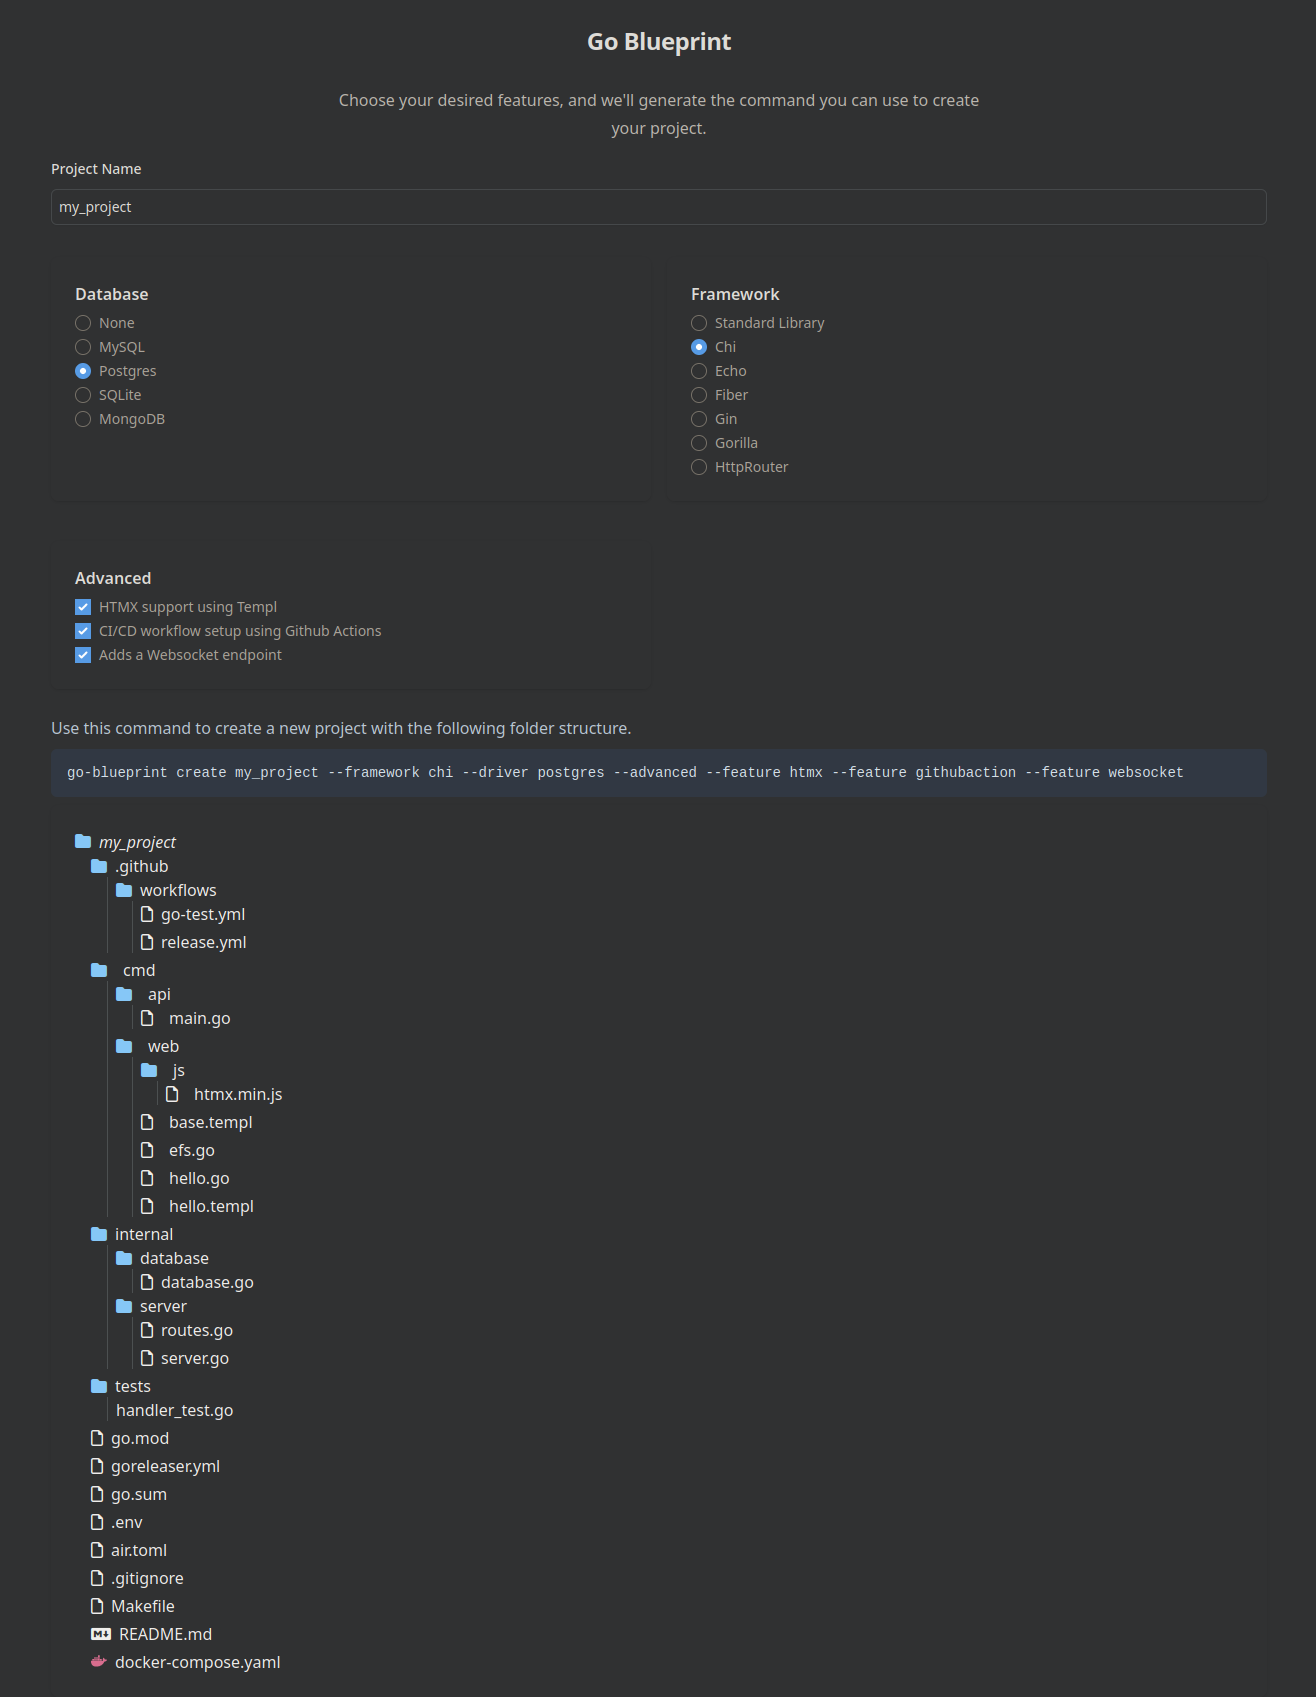
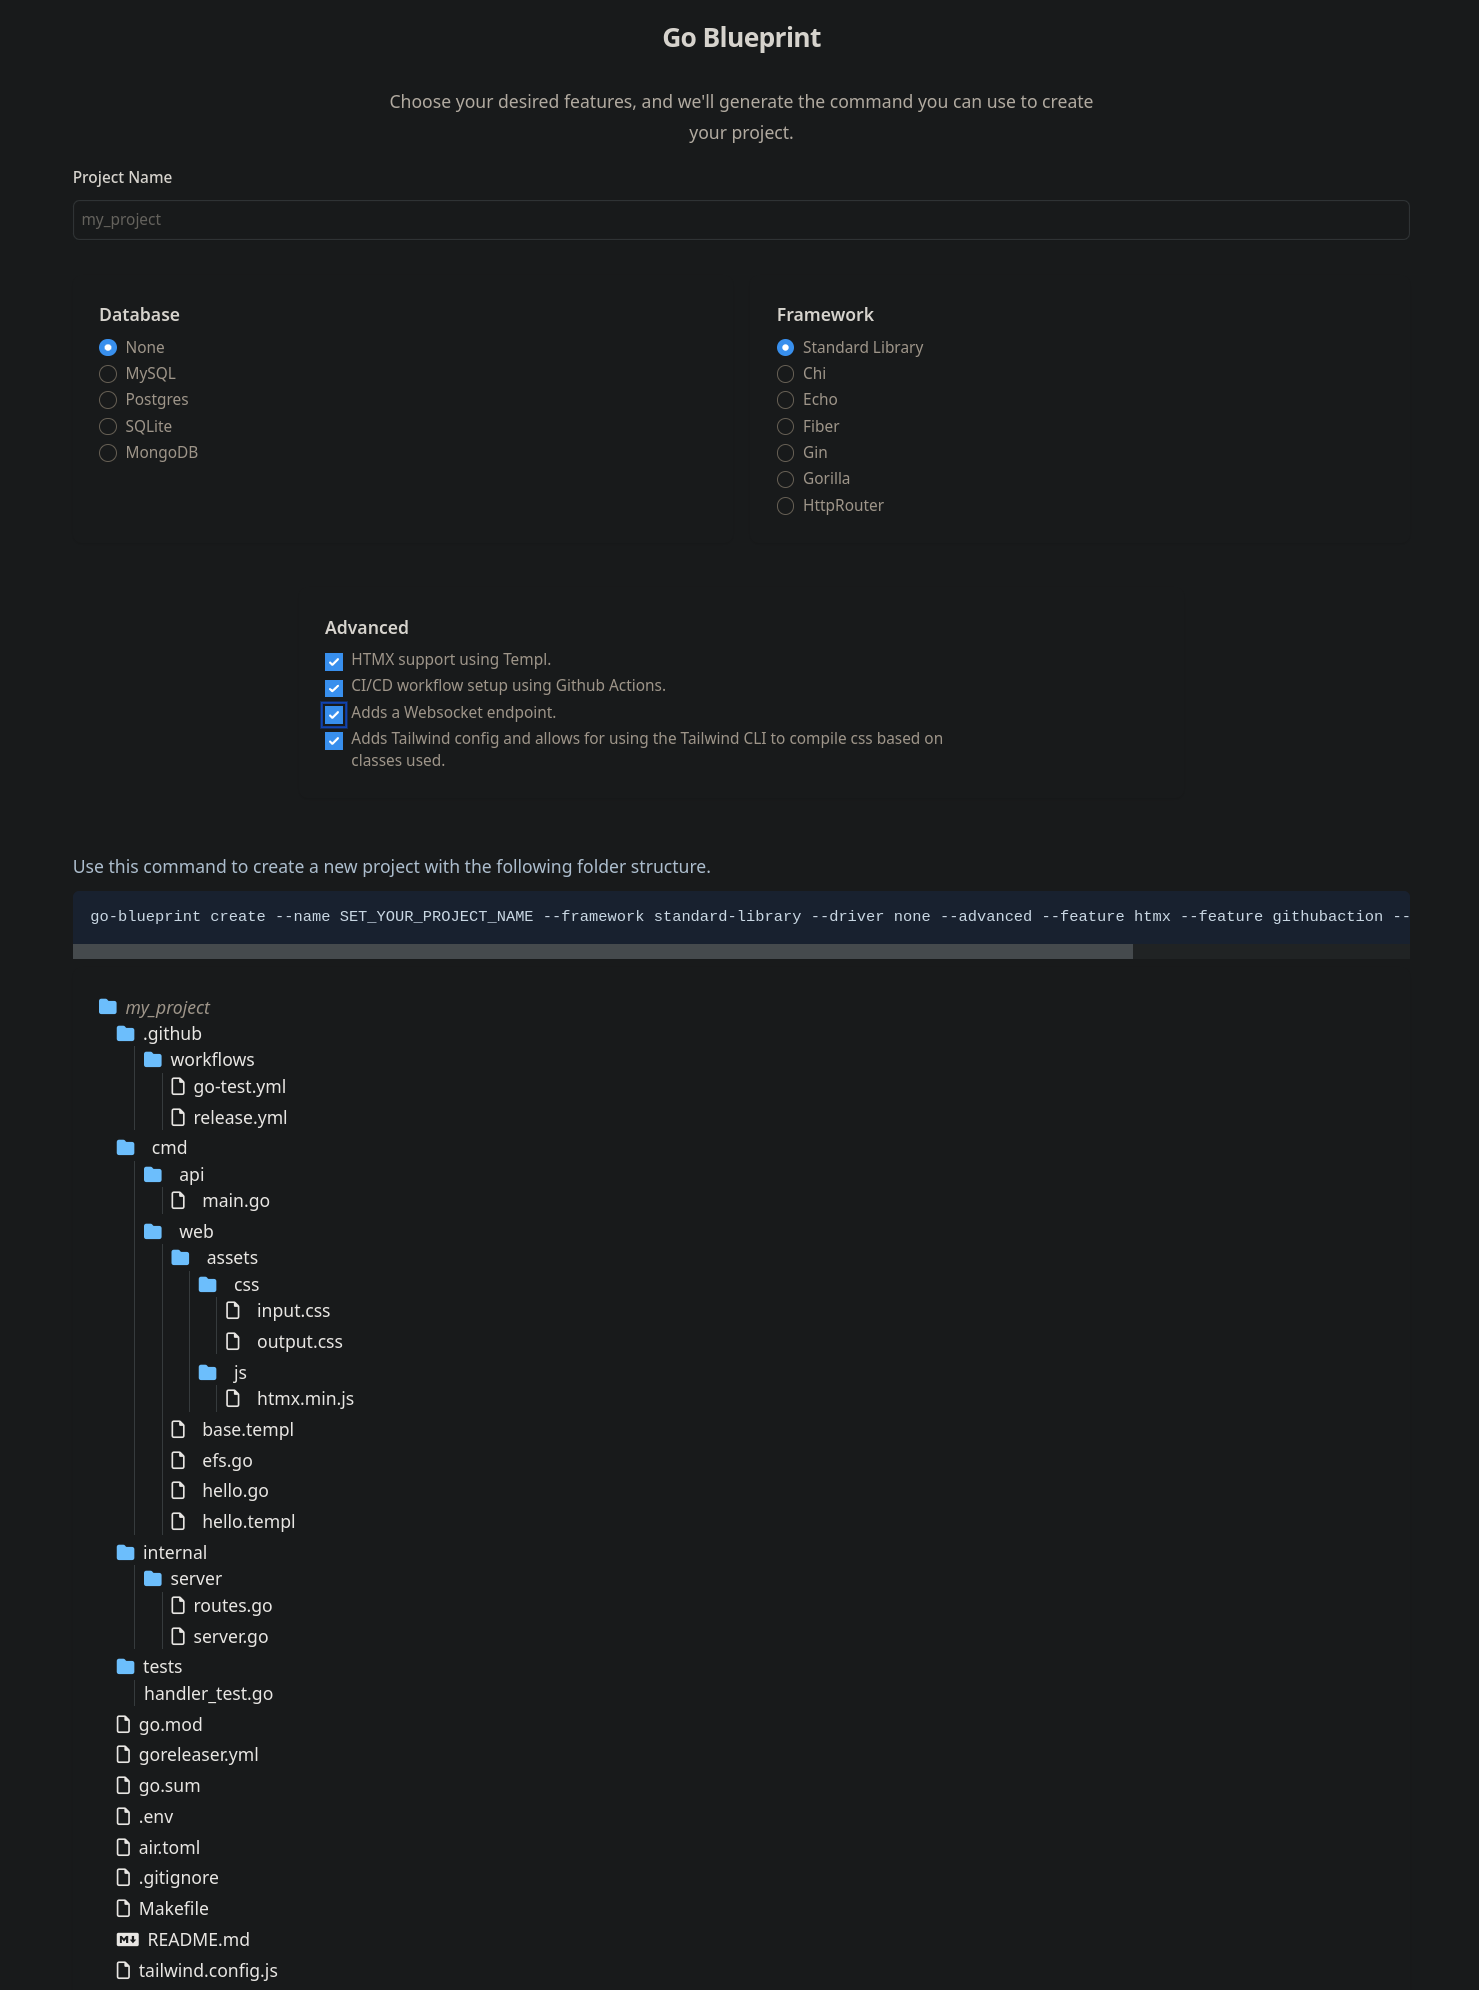
docs-update-Tailwind (#260)
* docs update

diff --git a/docs/docs/index.md b/docs/docs/index.md
@@ -34,21 +34,24 @@ Here's an overview of the project structure created by Go Blueprint when all opt
 │   │   └── main.go               # Main file for starting the server.
 │   └── web/
 │       ├── assets/
+│       │   ├── css/
+│       │   │   ├── input.css     # Tailwind input file for compiling output.css with CLI
+│       │   │   └── output.css    # Generated CSS file.
 │       │   └── js/
-│       │       └── htmx.min.js   # HTMX library for dynamic HTML content 
+│       │       └── htmx.min.js   # HTMX library for dynamic HTML content.
 │       ├── base.templ            # Base HTML template file.
-│       ├── base.templ.go         # Generated Go code for base template
-│       ├── efs.go                # File for handling file system operations.
-│       ├── hello.go              # Handler for serving "hello" endpoint.
+│       ├── base_templ.go         # Generated Go code for base template
+│       ├── efs.go                # Includes assets into compiled binary.
+│       ├── hello.go              # Logic for handling "hello" form.
 │       ├── hello.templ           # Template file for the "hello" endpoint.
-│       └── hello.templ.go        # Generated Go code for the "hello" template. 
+│       └── hello_templ.go        # Generated Go code for the "hello" template. 
 ├── internal/
 │   ├── database/
 │   │   └── database.go           # File containing functions related to database operations.
 │   └── server/
 │       ├── routes.go             # File defining HTTP routes.
 │       └── server.go             # Main server logic.
-├── tests/    
+├── tests/
 │   └── handler_test.go           # Test file for testing HTTP handlers.
 ├── .air.toml                     # Configuration file for Air, a live-reload utility.
 ├── docker-compose.yml            # Docker Compose configuration for defining DB config.
@@ -58,6 +61,7 @@ Here's an overview of the project structure created by Go Blueprint when all opt
 ├── .goreleaser.yml               # Configuration file for GoReleaser, a tool for building and releasing binaries.
 ├── go.sum                        # Go module file containing checksums for dependencies.
 ├── Makefile                      # Makefile for defining and running commands.
+├── tailwind.config.js            # Tailwind CSS configuration file.
 └── README.md                     # Project's README file containing essential information about the project.
 ```
 

diff --git a/docs/docs/advanced-flag/tailwind.md b/docs/docs/advanced-flag/tailwind.md
@@ -1,0 +1,61 @@
+Tailwind is closely coupled with the advanced HTMX flag, and HTMX will be automatically used if you select Tailwind in your project.
+
+We do not introduce outside dependencies automatically, and you need compile output.css (file is empty by default) with the Tailwind CLI tool.
+
+The project tree would look like this:
+```bash
+/ (Root)
+├── cmd/
+│   ├── api/
+│   │   └── main.go
+│   └── web/
+│       ├── assets/
+│       │   ├── css/
+│       │   │   ├── input.css
+│       │   │   └── output.css
+│       │   └── js/
+│       │       └── htmx.min.js
+│       ├── base.templ
+│       ├── base_templ.go
+│       ├── efs.go
+│       ├── hello.go
+│       ├── hello.templ
+│       └── hello_templ.go
+├── internal/
+│   └── server/
+│       ├── routes.go
+│       └── server.go
+├── tests/
+│   └── handler_test.go
+├── go.mod
+├── go.sum
+├── Makefile
+├── README.md
+└── tailwind.config.js
+```
+
+## Standalone Tailwind CLI
+
+The idea is not to use Node.js and npm to build `output.css`. To achieve this, visit the [official repository](https://github.com/tailwindlabs/tailwindcss/releases/latest) and download the latest release version for your OS and Arch:
+
+```bash
+curl -sLO https://github.com/tailwindlabs/tailwindcss/releases/download/v3.4.4/tailwindcss-linux-x64
+```
+
+Give execution permission:
+
+```bash
+chmod +x tailwindcss-linux-x64
+```
+
+## Compile and minify your CSS
+
+```bash
+./tailwindcss-linux-x64 -i cmd/web/assets/css/input.css -o cmd/web/assets/css/output.css
+```
+
+## Use Tailwind CSS in your project
+
+By default, CSS examples are not included in the codebase.
+Update base.templ and hello.templ, then rerun templ generate to see the changes at the localhost:PORT/web endpoint.
+

diff --git a/docs/docs/creating-project/project-init.md b/docs/docs/creating-project/project-init.md
@@ -28,7 +28,7 @@ Customize the flags according to your project requirements.
 
 ## Advanced Flag
 
-By including the `--advanced` flag, users can choose one or all of the advanced features, HTMX, GitHub Actions for CI/CD and Websocket support, during the project creation process. The flag enhances the simplicity of Blueprint while offering flexibility for users who require additional functionality.
+By including the `--advanced` flag, users can choose one or all of the advanced features, HTMX, GitHub Actions for CI/CD, Websocket and TailwindCSS support, during the project creation process. The flag enhances the simplicity of Blueprint while offering flexibility for users who require additional functionality.
 
 ```bash
 go-blueprint create --advanced
@@ -46,22 +46,26 @@ This approach opens interactive mode only for advanced features, which allow you
 
 Advanced features can be enabled using the `--feature` flag along with the `--advanced` flag:
 
-For HTMX:
+HTMX:
 ```bash
 go-blueprint create --advanced --feature htmx
 ```
 
-For the CI/CD workflow:
+CI/CD workflow:
 ```bash
 go-blueprint create --advanced --feature githubaction
 ```
 
-For the websocket:
+Websocket:
 ```bash
 go-blueprint create --advanced --feature websocket
+```
+TailwindCSS:
+```bash
+go-blueprint create --advanced --feature tailwind
 ```
 
 Or all features at once:
 ```bash
-go-blueprint create --name my-project --framework chi --driver mysql --advanced --feature htmx --feature githubaction --feature websocket
+go-blueprint create --name my-project --framework chi --driver mysql --advanced --feature htmx --feature githubaction --feature websocket --feature tailwind
 ```

diff --git a/README.md b/README.md
@@ -111,7 +111,7 @@ You can now use the `--advanced` flag when running the `create` command to get a
 - [HTMX](https://htmx.org/) support using [Templ](https://templ.guide/)
 - CI/CD workflow setup using [Github Actions](https://docs.github.com/en/actions)
 - [Websocket](https://pkg.go.dev/nhooyr.io/websocket) sets up a websocket endpoint
-- [Tailwind](https://tailwindcss.com/) Css framework
+- [Tailwind](https://tailwindcss.com/) css framework
 
 Note: selecting tailwind option automatically selects htmx.
 
@@ -153,22 +153,22 @@ go-blueprint create --advanced
 
 Advanced features can be enabled using the `--feature` flag along with the `--advanced` flag.
 
-For HTMX:
+HTMX:
 ```bash
 go-blueprint create --advanced --feature htmx
 ```
 
-For the CI/CD workflow:
+CI/CD workflow:
 ```bash
 go-blueprint create --advanced --feature githubaction
 ```
 
-For the websocket:
+Websocket:
 ```bash
 go-blueprint create --advanced --feature websocket
 ```
 
-For Tailwind:
+Tailwind:
 ```bash
 go-blueprint create --advanced --feature tailwind
 ```

diff --git a/docs/docs/endpoints-test/mongo.md b/docs/docs/endpoints-test/mongo.md
@@ -24,7 +24,7 @@ The `Health` returns a JSON-like map structure with a single key indicating the 
 }
 ```
 
-### Code implementation
+## Code implementation
 
 ```go
 func (s *service) Health() map[string]string {
@@ -44,4 +44,4 @@ func (s *service) Health() map[string]string {
 
 ## Note
 
-Currently, MongoDB does not support advanced health check functions like SQL databases or Redis. Implementation is basic, providing only a simple ping response to indicate if the server is reachable and DB connection healthy. Advanced health metrics such as connection pool statistics, memory usage, and detailed server information are not currently included.
+MongoDB does not support advanced health check functions like SQL databases or Redis. Implementation is basic, providing only a simple ping response to indicate if the server is reachable and DB connection healthy.

diff --git a/docs/docs/advanced-flag/advanced-flag.md b/docs/docs/advanced-flag/advanced-flag.md
@@ -11,6 +11,9 @@ Automates the setup of a CI/CD workflow using GitHub Actions.
 - **Websocket Support:**
 WebSocket endpoint that sends continuous data streams through the WS protocol.
 
+- **Tailwind:**
+Adds Tailwind CSS support to the project.
+
 To utilize the `--advanced` flag, use the following command:
 
 ```bash
@@ -27,5 +30,5 @@ go-blueprint create --name my-project --framework chi --driver mysql --advanced
 Non-Interactive Setup is also possible:
 
 ```bash
-go-blueprint create --name my-project --framework chi --driver mysql --advanced --feature htmx --feature githubaction --feature websocket
+go-blueprint create --name my-project --framework chi --driver mysql --advanced --feature htmx --feature githubaction --feature websocket --feature tailwind
 ```

diff --git a/docs/docs/endpoints-test/redis.md b/docs/docs/endpoints-test/redis.md
@@ -50,7 +50,7 @@ The `Health` function returns a JSON-like map structure with various keys repres
 }
 ```
 
-#### Serialization/deserialization
+### Serialization/deserialization
 
 The `Sample Output` is dynamic and unstructured since it depends on the raw map. To make it structurable, it must implement `JSON serialization/deserialization` or `Other serialization/deserialization` (e.g, `XML serialization/deserialization`) to bind it. For example:
 
@@ -163,7 +163,7 @@ The `Sample Output` is dynamic and unstructured since it depends on the raw map.
 </redis_health>
 ```
 
-### Code Implementation
+## Code Implementation
 
 ```go
 func (s *service) Health() map[string]string {

diff --git a/docs/docs/endpoints-test/server.md b/docs/docs/endpoints-test/server.md
@@ -23,7 +23,7 @@ Sample Output:
 {"message": "Hello World"}
 ```
 If the server is running and it is healthy, you should see the message 'Hello World' in the response.
-Also, depending on the framework you are using, there will be logs in the console:
+Also, depending on the framework you are using, there will be logs in the terminal:
 
 ```bash
 make run

diff --git a/.github/pull_request_template.md b/.github/pull_request_template.md
@@ -12,4 +12,4 @@ Please include a description of the problem or feature this PR is addressing.
 ## Checklist
 
 - [ ] I have self-reviewed the changes being requested
-- [ ] I have updated the documentation (if applicable)
+- [ ] I have updated the documentation (check issue ticket #218)

diff --git a/docs/docs/endpoints-test/sql.md b/docs/docs/endpoints-test/sql.md
@@ -44,7 +44,7 @@ The `Health` function returns a JSON-like map structure with the following keys 
 }
 ```
 
-### Code Implementation
+## Code Implementation
 
 ```go
 func (s *service) Health() map[string]string {

diff --git a/docs/docs/endpoints-test/web.md b/docs/docs/endpoints-test/web.md
@@ -9,7 +9,7 @@ This page contains a form with a single input field and a submit button. Upon su
 
 ![htmx](../public/htmx.png)
 
-### Console log
+## Terminal log
 
 ```bash
 make run
